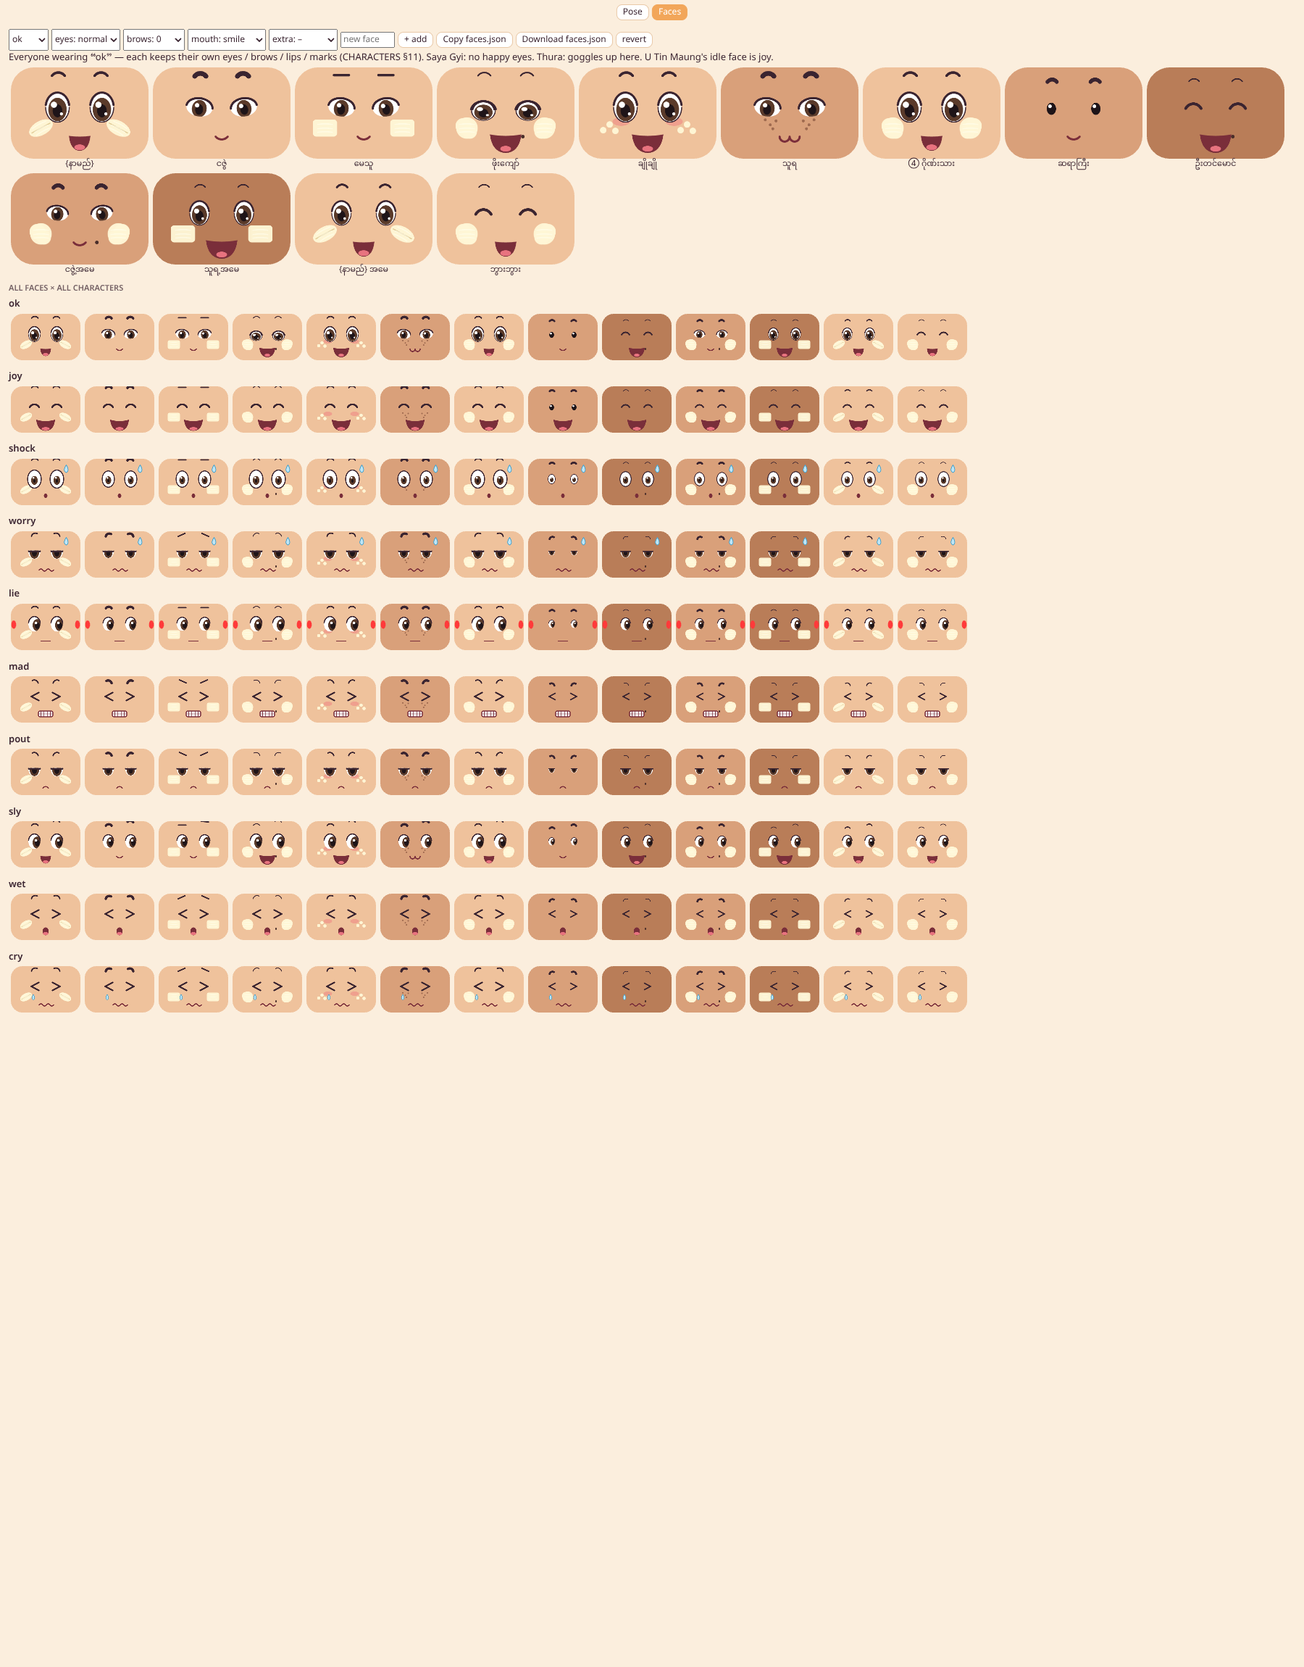
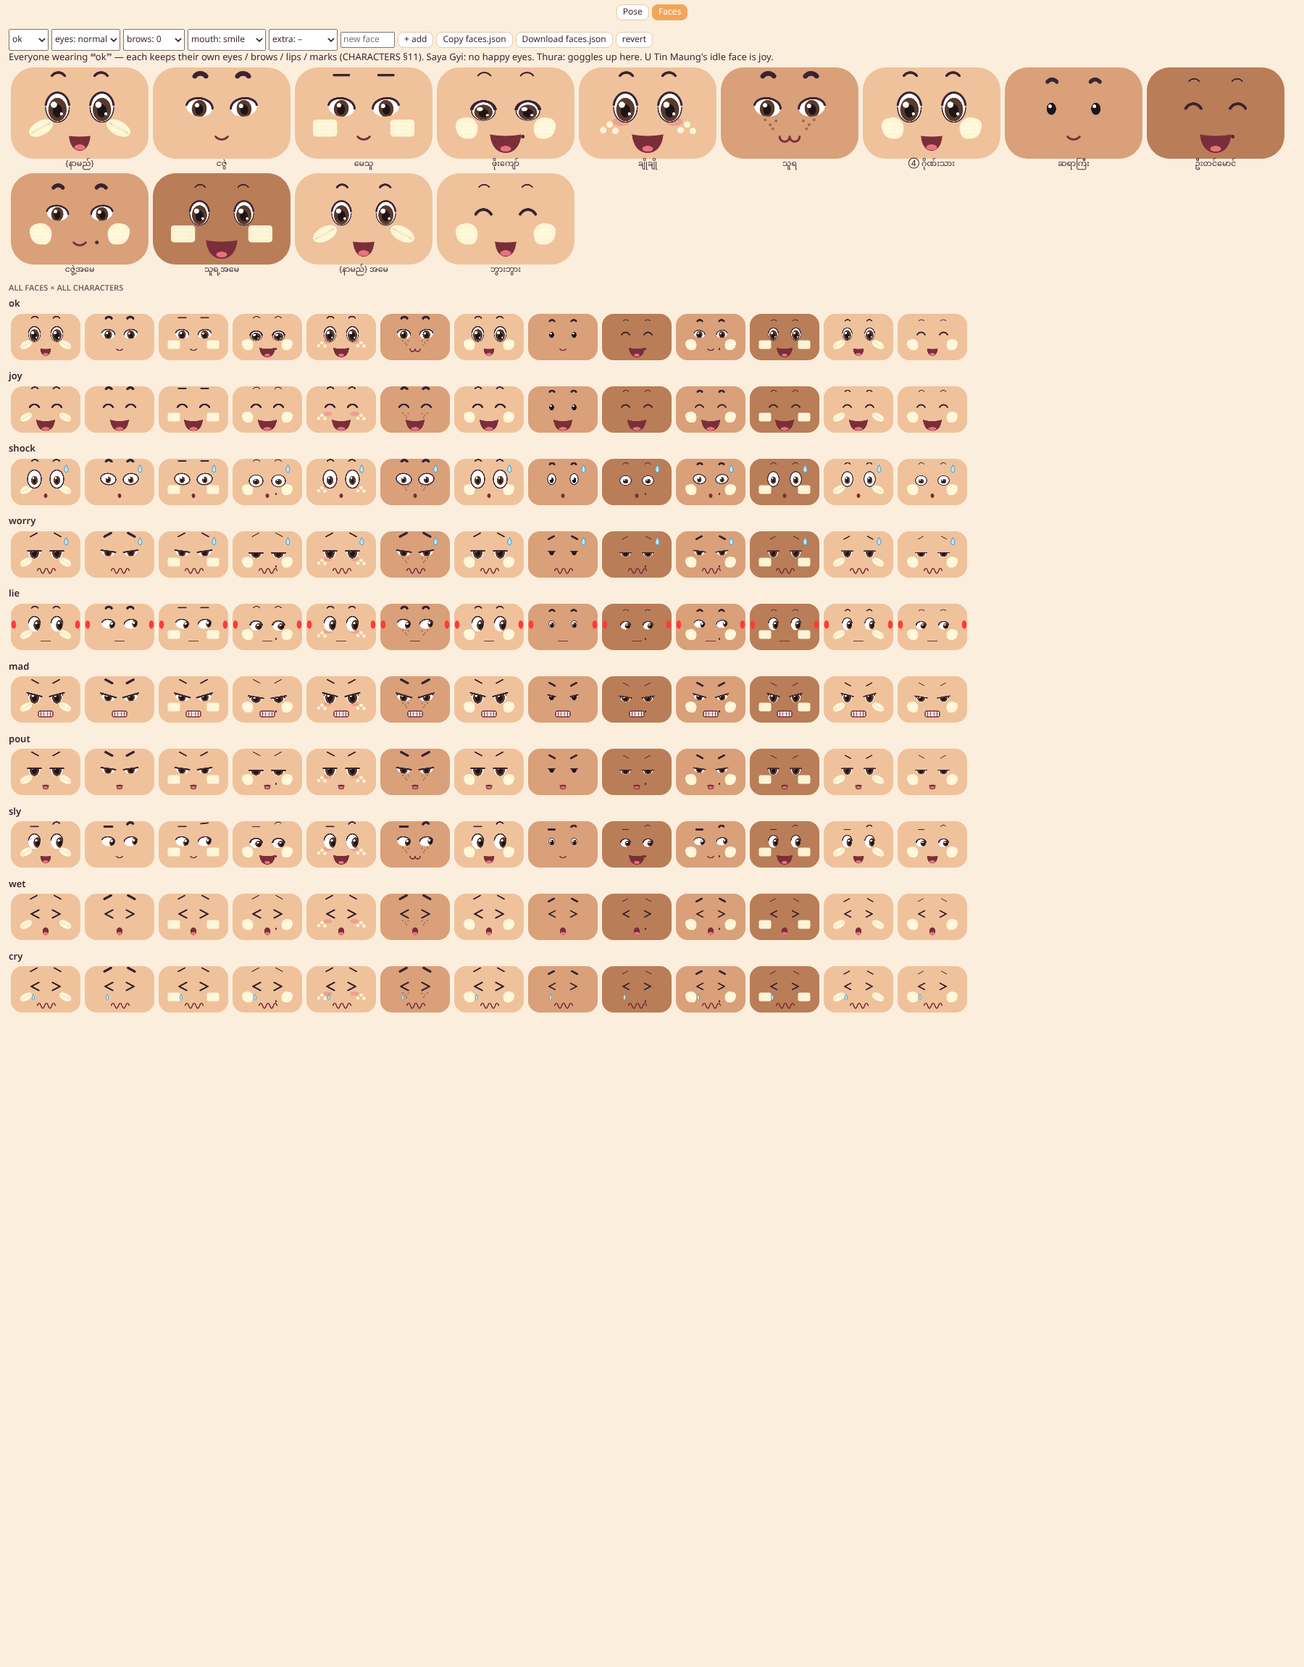
T6.5 review 1: faces read apart (glare, side, tented brows, per-character eye styles), sw cache list, version numbers above T5b-1
Claude-Session: https://claude.ai/code/session_017xuZq8H4cNKSMdBo5y4KvM

Changed region(s): [[0.2489, 0.4013, 0.28, 0.4322], [0.1867, 0.4939, 0.2178, 0.5248], [0.1867, 0.2778, 0.2178, 0.3087]]

diff --git a/chibi.js b/chibi.js
@@ -85,6 +85,36 @@ function stripes(a, b, plaid, border) {
   const t = new THREE.CanvasTexture(c); t.colorSpace = THREE.SRGBColorSpace; t.wrapS = THREE.RepeatWrapping; t.magFilter = THREE.NearestFilter; return t;
 }
 
+// T6.5 wide / side / half / glare: drawn from the character's own eye style (round · almond tilted · sleepy squashed with a heavy lid · bead with no white),
+// in that character's iris colour, so the same face still reads as that person (CHARACTERS §11).
+// wide = big sclera, small iris + pupil · side = both irises pushed to the same edge · half = flat lid across the middle · glare = the flat lid slanted down towards the nose (angry)
+function newEye(g, x, y, s, kind, o, iris, WH, ink) {
+  const st = o.eyes, bead = st === 'bead', alm = st === 'almond', slp = st === 'sleepy';
+  const rx = bead ? 15 : alm ? 30 : 27, ry = bead ? 19 : alm ? 21 : 34, ir = alm ? [17, 20, 3] : [21, 27, 5], pr = alm ? [9, 12, 5] : [11, 15, 8];
+  const wide = kind === 'wide', k = wide ? .62 : kind === 'side' ? .88 : 1, dx = kind === 'side' ? rx - ir[0] * k + 6 : 0, lw = slp ? 8 : 5;
+  g.save(); g.translate(x, y); if (slp) { g.translate(0, 8); g.scale(1, .65); } if (alm) g.rotate(-s * .14); if (wide) g.scale(1.15, 1.2); if (bead && wide) g.scale(1.3, 1.3);
+  g.save();
+  const ly = -ry * .08, oy = -ry * .5; // half: lid y · glare: lid y at the outer end (the inner end is at the middle)
+  if (kind === 'half') { g.beginPath(); g.rect(-60, ly, 120, 120); g.clip(); }
+  if (kind === 'glare') { const ox = s * (rx + 8), nx = -s * (rx + 8); g.beginPath(); g.moveTo(ox, oy); g.lineTo(ox, 120); g.lineTo(nx, 120); g.lineTo(nx, 0); g.closePath(); g.clip(); }
+  if (bead) {
+    if (wide || kind === 'side') { g.fillStyle = WH; g.beginPath(); g.ellipse(0, 0, rx, ry, 0, 0, 7); g.fill(); g.strokeStyle = ink; g.lineWidth = 3; g.stroke(); }
+    g.fillStyle = '#1e1418'; g.beginPath(); g.ellipse(dx * .6, 4, 13 * (wide ? .6 : kind === 'side' ? .8 : 1), 17 * (wide ? .6 : kind === 'side' ? .8 : 1), 0, 0, 7); g.fill();
+    g.fillStyle = '#fff'; g.beginPath(); g.arc(dx * .6 - 4, -2, 4, 0, 7); g.fill();
+  } else {
+    g.fillStyle = WH; g.beginPath(); g.ellipse(0, 0, rx, ry, 0, 0, 7); g.fill(); g.save(); g.beginPath(); g.ellipse(0, 0, rx, ry, 0, 0, 7); g.clip();
+    g.fillStyle = iris; g.beginPath(); g.ellipse(dx, ir[2], ir[0] * k, ir[1] * k, 0, 0, 7); g.fill();
+    g.fillStyle = '#1e1418'; g.beginPath(); g.ellipse(dx, pr[2], pr[0] * k * (wide ? .8 : 1), pr[1] * k * (wide ? .8 : 1), 0, 0, 7); g.fill();
+    g.fillStyle = '#fff'; g.beginPath(); g.arc(dx - 7 * k, -4, 6 * k, 0, 7); g.fill(); g.restore();
+    g.strokeStyle = ink; g.lineWidth = wide ? 4 : lw; g.beginPath(); g.ellipse(0, 0, rx, ry, 0, wide ? 0 : Math.PI * 1.05, wide ? 7 : Math.PI * 1.95); g.stroke();
+  }
+  g.restore();
+  g.strokeStyle = ink; g.lineWidth = slp ? 9 : 7; g.beginPath();
+  if (kind === 'half') { g.moveTo(-rx - 3, ly); g.lineTo(rx + 3, ly); g.stroke(); }
+  if (kind === 'glare') { g.moveTo(s * (rx + 6), oy); g.lineTo(-s * (rx + 6), 0); g.stroke(); }
+  g.restore();
+}
+
 // ---------- face: painted on a canvas, mapped onto a patch of the head ----------
 const FW = 384, FH = 256, faceCache = {};
 // o.eyes round|almond|bead|sleepy · o.brows arc|flat|thin|bold · o.lips smile|grin|small|cat · o.marks none|blush|freckles|mole
@@ -116,21 +146,12 @@ export function faceTex(o, f) {
     const x = 192 + s * 62, y = 112;
     g.save(); g.translate(x, y); g.scale(k, k); g.translate(-x, -y);
     g.save(); // brow, moved off the character's own shape by the face's brows part (T6.5)
-    if (brow) { const by = y - 68; g.translate(x, by); const [dy, rot] = { up: [-13, 0], in: [5, -.42 * s], out: [-2, .42 * s], one: [s > 0 ? -16 : 0, s > 0 ? .1 : 0] }[brow] || [0, 0]; g.translate(0, dy); g.rotate(rot); g.translate(-x, -by); }
+    const flatBrow = o.brows === 'flat' || brow === 'in' || brow === 'out' || (brow === 'one' && s < 0); // in / out are straight bars, tipped // 'one': the right brow goes high, the left one goes flat
+    if (brow) { const by = y - 68; g.translate(x, by); const [dy, rot] = { up: [-10, 0], in: [6, -.5 * s], out: [-3, .5 * s], one: [s > 0 ? -10 : 8, s > 0 ? -.12 * s : 0] }[brow] || [0, 0]; g.translate(0, dy / k); /* px on the canvas: a kid's face is scaled k about the eye, and the brows sit near the top edge */ g.rotate(rot); g.translate(-x, -by); }
     g.strokeStyle = ink; g.lineWidth = { thin: 3.5, bold: 11 }[o.brows] || 6; g.beginPath();
-    if (o.brows === 'flat') { g.moveTo(x - 17, y - 74); g.lineTo(x + 17, y - 74); } else g.arc(x - s * 2, y - 62, o.brows === 'bold' ? 16 : 18, Math.PI * 1.2, Math.PI * 1.8);
+    if (flatBrow) { g.moveTo(x - 17, y - 74); g.lineTo(x + 17, y - 74); } else g.arc(x - s * 2, y - 62, o.brows === 'bold' ? 16 : 18, Math.PI * 1.2, Math.PI * 1.8);
     g.stroke(); g.restore();
-    if (eye === 'wide' || eye === 'side' || eye === 'half') { // T6.5: round eyes, sized to the character's own (bead small, almond a little narrow)
-      const es = { bead: .64, almond: .9 }[o.eyes] || 1, ix = eye === 'side' ? 13 : 0, sx = eye === 'wide' ? 1.14 : 1, sy = eye === 'wide' ? 1.2 : 1, ir = eye === 'wide' ? .62 : 1;
-      g.save(); g.translate(x, y); g.scale(es * sx, es * sy); g.translate(-x, -y);
-      if (eye === 'half') { g.beginPath(); g.rect(x - 40, y - 5, 80, 60); g.clip(); }
-      g.fillStyle = WH; g.beginPath(); g.ellipse(x, y, 27, 34, 0, 0, 7); g.fill(); g.save(); g.beginPath(); g.ellipse(x, y, 27, 34, 0, 0, 7); g.clip();
-      g.fillStyle = iris; g.beginPath(); g.ellipse(x + ix, y + 5, 21 * ir, 27 * ir, 0, 0, 7); g.fill();
-      g.fillStyle = '#1e1418'; g.beginPath(); g.ellipse(x + ix, y + 7, 11 * ir * (eye === 'wide' ? .7 : 1), 15 * ir * (eye === 'wide' ? .7 : 1), 0, 0, 7); g.fill();
-      g.fillStyle = '#fff'; g.beginPath(); g.arc(x + ix - 6 * ir, y - 5, 6 * ir, 0, 7); g.fill(); g.restore();
-      g.strokeStyle = ink; g.lineWidth = eye === 'wide' ? 4 : 5; g.beginPath(); g.ellipse(x, y, 27, 34, 0, eye === 'wide' ? 0 : Math.PI * 1.05, eye === 'wide' ? 7 : Math.PI * 1.95); g.stroke();
-      if (eye === 'half') { g.lineWidth = 7; g.beginPath(); g.moveTo(x - 26, y - 1); g.lineTo(x + 26, y - 1); g.stroke(); } // the lid, half-way down
-      g.restore();
+    if (eye === 'wide' || eye === 'side' || eye === 'half' || eye === 'glare') { newEye(g, x, y, s, eye, o, iris, WH, ink);
     } else if (eye === 'none') { /* goggles down: the cups hide the eyes */ }
     else if (eye === 'normal' && o.eyes === 'bead') { // small shiny bead eyes
       g.fillStyle = '#1e1418'; g.beginPath(); g.ellipse(x, y + 4, 13, 17, 0, 0, 7); g.fill();
@@ -165,8 +186,8 @@ export function faceTex(o, f) {
   if (lips === 'o') { g.beginPath(); g.ellipse(192, 204, 10, 12, 0, 0, 7); g.fill(); }
   if (lips === 'wide') { g.beginPath(); g.moveTo(140, 184); g.quadraticCurveTo(192, 200, 244, 184); g.quadraticCurveTo(238, 244, 192, 246); g.quadraticCurveTo(146, 244, 140, 184); g.fill(); g.fillStyle = '#e8737f'; g.beginPath(); g.ellipse(192, 234, 22, 9, 0, 0, 7); g.fill(); }
   if (lips === 'line') { g.beginPath(); g.moveTo(166, 206); g.lineTo(218, 206); g.stroke(); }
-  if (lips === 'pout') { g.beginPath(); g.arc(192, 226, 17, Math.PI * 1.15, Math.PI * 1.85); g.stroke(); }
-  if (lips === 'wobble') { g.beginPath(); g.moveTo(156, 214); for (let i = 0; i < 4; i++) g.quadraticCurveTo(156 + i * 20 + 10, i % 2 ? 226 : 202, 156 + i * 20 + 20, 214); g.stroke(); }
+  if (lips === 'pout') { g.fillStyle = '#e8737f'; g.lineWidth = 4; g.beginPath(); g.ellipse(192, 214, 14, 9, 0, 0, 7); g.fill(); g.stroke(); g.lineWidth = 6; g.beginPath(); g.moveTo(176, 204); g.quadraticCurveTo(192, 198, 208, 204); g.stroke(); } // lips pushed forward: a small round bump under a short bar
+  if (lips === 'wobble') { g.beginPath(); g.moveTo(146, 218); for (let i = 0; i < 5; i++) g.quadraticCurveTo(146 + i * 20 + 10, i % 2 ? 246 : 192, 146 + i * 20 + 20, 218); g.stroke(); } // a wavy line, wider and deeper than a smile
   if (lips === 'grit') { g.fillStyle = '#fff'; g.lineWidth = 5; g.beginPath(); g.roundRect(152, 192, 80, 32, 9); g.fill(); g.stroke(); g.lineWidth = 3; g.beginPath(); g.moveTo(152, 208); g.lineTo(232, 208); for (const dx of [-26, -9, 9, 26]) { g.moveTo(192 + dx, 192); g.lineTo(192 + dx, 224); } g.stroke(); }
   if (extra === 'sweat') { g.fillStyle = '#bfe6f6'; g.strokeStyle = '#4fa3c9'; g.lineWidth = 4; g.beginPath(); g.moveTo(306, 34); g.quadraticCurveTo(326, 66, 306, 76); g.quadraticCurveTo(284, 66, 306, 34); g.fill(); g.stroke(); }
   if (extra === 'tear') { g.fillStyle = '#bfe6f6'; g.strokeStyle = '#4fa3c9'; g.lineWidth = 3; g.beginPath(); g.moveTo(124, 156); g.quadraticCurveTo(138, 178, 124, 186); g.quadraticCurveTo(110, 178, 124, 156); g.fill(); g.stroke(); }
@@ -960,7 +981,7 @@ export const FACE = {
   shock: { eyes: 'wide', brows: 'up', mouth: 'o', extra: 'sweat' },
   worry: { eyes: 'half', brows: 'out', mouth: 'wobble', extra: 'sweat' },
   lie: { eyes: 'side', brows: 0, mouth: 'line', extra: 'redEar' },
-  mad: { eyes: 'squint', brows: 'in', mouth: 'grit', extra: null },
+  mad: { eyes: 'glare', brows: 'in', mouth: 'grit', extra: null },
   pout: { eyes: 'half', brows: 'in', mouth: 'pout', extra: null },
   sly: { eyes: 'side', brows: 'one', mouth: 'smile', extra: null },
   wet: { eyes: '><', brows: 'out', mouth: 'open', extra: null },
@@ -968,7 +989,7 @@ export const FACE = {
 // per character id: base = the face shown wherever the loop would show `ok` · hideEyesWhen: 'goggles' = no eyes part while ch.goggles.up === false.
 // (Saya Gyi's no-happy-eyes is his own opts.smileEyes: false, which also keeps him off `joy`'s happy eyes.)
 export const FACE_OV = { utinmaung: { base: 'joy' }, thura: { hideEyesWhen: 'goggles' } };
-export const FACE_PARTS = { eyes: ['normal', 'blink', 'happy', 'squint', '><', 'wide', 'side', 'half', 'none'], brows: [0, 'up', 'in', 'out', 'one'],
+export const FACE_PARTS = { eyes: ['normal', 'blink', 'happy', 'squint', '><', 'wide', 'side', 'half', 'glare', 'none'], brows: [0, 'up', 'in', 'out', 'one'],
   mouth: ['smile', 'open', 'o', 'wide', 'line', 'pout', 'wobble', 'grit'], extra: [null, 'sweat', 'tear', 'lines', 'redEar'] };
 export function setFaces(json) { // faces.json → the table (replaced in place, so importers keep their reference)
   if (json.faces) { for (const k of Object.keys(FACE)) delete FACE[k]; Object.assign(FACE, json.faces); }

diff --git a/yangon/main.js b/yangon/main.js
@@ -6,19 +6,19 @@
 // people and the street life stay — on day 1 they're out of Mum's range.
 import { createWorld, PAL, SKINS } from '../world.js?v=19';
 import { CAT_COATS } from '../critters.js?v=9';
-import { buildSet, BOUNDS, LANES, OX, OZ, ground, AREAS, areaAt, shwedagon } from './set.js?v=23';
+import { buildSet, BOUNDS, LANES, OX, OZ, ground, AREAS, areaAt, shwedagon } from './set.js?v=24';
 import { createHud, play } from './hud.js?v=6';
 import { openBarber, openClothes, redress } from './wardrobe.js?v=8';
 import { buildRooms } from './rooms.js?v=14';
 import { icon, TEA_MENU, teaColor } from './icons.js?v=1';
-import { startLife } from './life.js?v=21';
+import { startLife } from './life.js?v=22';
 import { bulbs } from './bulbs.js?v=1';
 import { createSound } from '../sound.js?v=3';
 import { makeCast, earBlush } from '../cast.js?v=15';
 import { createCarry, ITEMS } from '../carry.js?v=1';
 import { makeBike, seatOn } from '../bike.js?v=1';
-import { load as loadSave, save as store, wipe } from './save.js?v=10';
-import { createDay, debugStart, PHASE_OF } from './day.js?v=5';
+import { load as loadSave, save as store, wipe } from './save.js?v=11';
+import { createDay, debugStart, PHASE_OF } from './day.js?v=6';
 import { createStory, GOALS, NIGHT } from './story.js?v=3';
 import { createMandat } from './mandat.js?v=1';
 import { createDirector } from './talk.js?v=1';

diff --git a/sw.js b/sw.js
@@ -7,6 +7,7 @@ const THREE = 'https://cdn.jsdelivr.net/npm/three@0.170.0/';
 const CORE = [
   'yangon.html', 'pwa.js', 'manifest.webmanifest', 'icons/icon-192.png', 'icons/icon-512.png', 'icons/icon.svg',
   'world.js', 'chibi.js', 'critters.js', 'sound.js', 'palette.js', 'camera.js', 'sky.js', // T2: the orbit camera, the sky, the palette
+  'faces.json', 'tics/index.json', 'tics/bow.json', 'tics/note.json', 'tics/lob.json', // T6.5: the face table + the JSON tics cast.js loads at start
   'cast.js', 'carry.js', 'bike.js', 'rules.js', // T5: the named cast, carrying (the bowl), Phoe Kyaw's bike, the water-fight rules
   'art/home.glb', 'art/teashop.glb', 'art/stalls.glb', // T2 hero buildings (the town shows code-built stand-ins until these load)
   'fonts/fonts.css', 'fonts/NotoSansMyanmar-myanmar.woff2', 'fonts/NotoSansMyanmar-latin.woff2', 'fonts/NotoSansMyanmar-latin-ext.woff2',

diff --git a/yangon/downtown.js b/yangon/downtown.js
@@ -3,10 +3,10 @@
 // Era 2015–19: floats still allowed. The stage is a generic city mandat — no officials, no state symbols (docs/archive/STORY.md §၈).
 // Favour #9: the water crew will give you a brass sprinkler for the kids' mandat, once you've been soaked at all three stages.
 import { createWorld, PAL } from '../world.js?v=19';
-import { shwedagon, MM, backs } from './set.js?v=23';
+import { shwedagon, MM, backs } from './set.js?v=24';
 import { createHud, play } from './hud.js?v=6';
 import { makePlayer } from './wardrobe.js?v=8';
-import { load, save as store, finish, travel, party as partyOf, ITEMS, NEED } from './save.js?v=10';
+import { load, save as store, finish, travel, party as partyOf, ITEMS, NEED } from './save.js?v=11';
 import { createSound } from '../sound.js?v=3';
 
 const S = load(); S.at = 'downtown';

diff --git a/yangon/boot.js b/yangon/boot.js
@@ -1,8 +1,8 @@
 // yangon/boot.js — one page, two maps: the ward (①–④) or downtown (⑤), whichever the save says you're in.
-import { load } from './save.js?v=10';
+import { load } from './save.js?v=11';
 
 const S = load();
 // T2: the sign boards are drawn onto canvases while the town is built, so let the self-hosted Myanmar font arrive first
 // (at most 1.5 s — offline it comes from the PWA cache at once; if it never does, the system font is used as before)
 await Promise.race([document.fonts?.load('700 40px "Noto Sans Myanmar"', 'က').catch(() => {}), new Promise(r => setTimeout(r, 1500))]);
-import(S.at === 'downtown' ? './downtown.js?v=19' : './main.js?v=34');
+import(S.at === 'downtown' ? './downtown.js?v=20' : './main.js?v=34');

diff --git a/yangon/day.js b/yangon/day.js
@@ -2,7 +2,7 @@
 // five o'clock at the mandat → night at home with one question. This file owns the parts every day shares: the phase
 // (and its light), the range Mum allows today, the goal line on the HUD, the 「ရက် N」 title and the end-of-day card, and
 // the ?day=&step= debug start. What happens in each scene is story.js (lines) and main.js (play).
-import { MM, BOUNDS, LANES } from './set.js?v=23';
+import { MM, BOUNDS, LANES } from './set.js?v=24';
 
 // W.setTime: 0 the morning/afternoon light · .6 the golden five o'clock · 1.7 night
 export const PHASES = { morning: 0, day: 0, five: .6, night: 1.7 };

diff --git a/yangon/life.js b/yangon/life.js
@@ -6,7 +6,7 @@
 // spawn, park, idle or pass there; ① has them only on the side lane ↔ the main street. clearFor(secs): a story scene is on —
 // extras within 10 m of you walk off past 12 m and stay away till it's over.
 import { PAL } from '../world.js?v=19';
-import { ROAD } from './set.js?v=23';
+import { ROAD } from './set.js?v=24';
 
 export function startLife(W, { L, BOUNDS, ground, phase, quiet = [] }) {
   const { THREE, scene, bean, mesh, box, cyl, textTex, bubbleTex, rnd, pick } = W;

diff --git a/docs/plans/T6.5.md b/docs/plans/T6.5.md
@@ -107,3 +107,15 @@ Screenshots in `docs/plans/T6.5-shots/`: `faces-sheet.png` (13 faces on everyone
 - Editor: dot dragging, clipboard copy and the localStorage draft restore were not exercised headless (clipboard falls back to selecting the text); `Download` only builds the Blob link. Laptop only, no phone layout.
 - The game itself (yangon story lines calling `anim.face`) was not played end to end; checked only that the pages load with 0 console errors and that `anim.face` has the signature story.js calls.
 - Version bumps: chibi 34 / cast 15 / main 34 / boot 35 / sw y23 as agreed; every other file in the importer chain got +1 (world 19, critters 9, wardrobe 8, set 23, life 21, rooms 14, day 5, save 10, downtown 19, camlab 6, war 17). T5b-1 / day1b may bump some of these too, so expect trivial text conflicts on those import lines.
+
+## Review 1 fixes (faces read apart; sw; versions)
+1. **mad vs wet**: `mad` now uses a new eyes part **`glare`** (the character's own eye, top cut by a flat lid slanted down towards the nose, about half the height, pupil visible). Name note: the legacy `squint` value (the `> <` drawing used by the shake tic and old poses) is unchanged so the code tics and `facecmp` stay identical; `><` is now only wet / cry (and that legacy squint). `faces.json` mad = glare.
+2. **sly vs ok**: `side` shrinks the iris a little and pushes both to the same edge (clipped by the white, so it reads at 96 px); `one` raises the right brow and flattens the left into a bar.
+3. **worry vs pout**: `out` / `in` brows are now straight bars tipped ±.5 rad (worry: inner ends up, a tent; pout / mad: inner ends down); worry mouth = a wide, deep wavy line (+ sweat), pout mouth = a small pink pushed-out bump under a short bar. Brow offsets are in canvas pixels (divided by the kid scale k), because a kid's brows sit ~14 px from the canvas top and `up` used to clip them.
+4. **per-character eyes** (§11): wide / side / half / glare come from one drawer (`newEye`) driven by the character's own `eyes` style: round, **almond** (narrow, tilted by the outer corner, stays almond-wide), **sleepy** (squashed with the heavy lid; `half` / `glare` lids drawn heavier), **bead** (no white normally; shock / sly get a white ring round the bead). All use that character's iris colour. No separate lash marks exist in the base faces, so none were added.
+5. `sw.js` CORE now lists `faces.json`, `tics/index.json`, `tics/bow.json`, `tics/note.json`, `tics/lob.json`.
+6. Versions moved above T5b-1: set 24, life 22, day 6, save 11, downtown 20 (chibi 34, cast 15, main 34, boot 35, sw y23 as agreed). A script compared every `?v=` import on the branch with `e8e9ec4`: no importer of a changed file still has its old number.
+
+Re-run after the fixes: `regress.cjs` 458 compared, worst 0, differing 0, errors none · `facecmp.cjs` 156 compared, 0 differ (1 meant: U Tin Maung) · `ticcmp.cjs` bow / note worst 0.0008 rad, lob 0.0000, all events identical · 0 console errors on the 7 pages · `anim.face` checks as before (Thura goggles down = eyes `none`, Saya Gyi joy without happy eyes, `lie` ears on / off).
+New / re-shot in `docs/plans/T6.5-shots/`: `faces-sheet.png`, `faces-grid-shock.png`, `faces-mad-wet-sly-ok.png` (4 rows x 3 characters: round / almond / sleepy), `faces-worry-pout-shock.png`.
+Still weak: bead-eye characters have a small face, so `wide` / `half` read less than on the others; `half` and `pout` eyes are similar at 96 px (the brows and mouth carry the difference).

diff --git a/tics/README.md b/tics/README.md
@@ -19,7 +19,7 @@ Left: characters + tic list · right: sliders, key, props, save · bottom: trans
 - A channel is a track made of the keys that name it. `"pose": {}` = **base anchor** (every channel is the base loop's value there). `"pose": {}` with `"hold": true` = every channel stays as it was. A key with **no `pose` at all** only changes the face.
 - Before a channel's first key and after its last, it is the base loop's value (a tic starts and ends on the base unless a key says otherwise). The migrated `bow / note / lob` name every channel at t = 0 so they match the code tics exactly.
 - `ease` belongs to the segment that **ends** on the key. `hold: true` keeps the earlier value until that key's time.
-- `face`: a FACE name (`ok joy shock worry lie mad pout sly wet cry`) or `{ "eyes", "mouth", … }` parts. A named face blink-cuts in and out; parts behave like the loop's own expression.
+- `face`: a FACE name (`ok joy shock worry lie mad pout sly wet cry`; eyes parts `wide side half glare`, `><` and the legacy `squint`) or `{ "eyes", "mouth", … }` parts. A named face blink-cuts in and out; parts behave like the loop's own expression.
 - `props`: `{ id, at, to: handR|handL|chest|head|back|home, pos, rot }` · `show`: `{ id, at, visible }` · `emit`: `{ at, type, from }` (`anim.emit(type, pivot)`). When the tic ends or is cut short, every prop it moved and every visibility it changed goes back by itself.
 - A scribble (`note`) is just many linear keys; 8 per period is enough.
 
